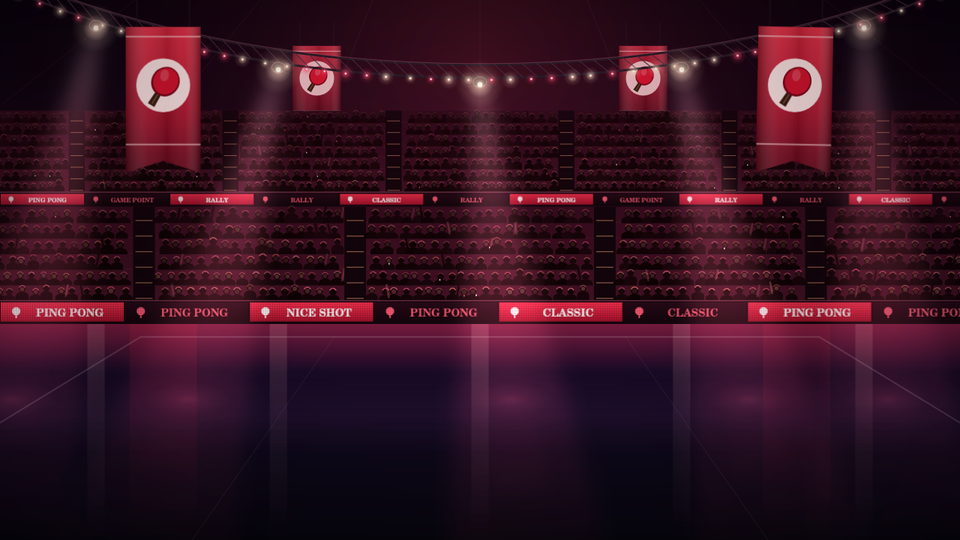
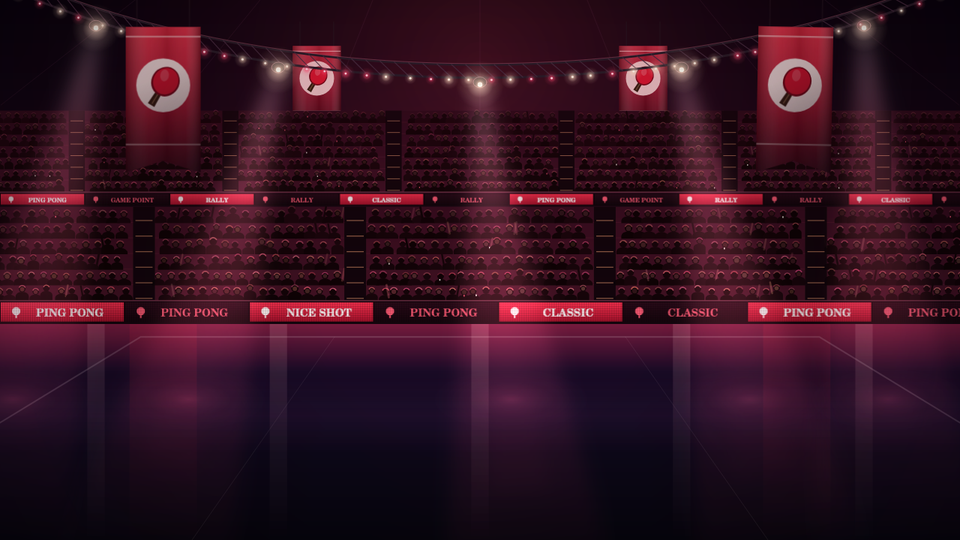
Relight planet and roadside cutouts, shade cloth and refresh renderer cache URLs

Changed region(s): [[0.7812, 0.0889, 0.875, 0.3259], [0.125, 0.0889, 0.2188, 0.3259]]

diff --git a/game/js/render/gravity-art.js b/game/js/render/gravity-art.js
@@ -8,6 +8,36 @@
         x: ((i * 0.61803398875 + .13) % 1), y: ((i * .41421356237 + .07) % 1),
         phase: i * 2.39, size: i % 9 === 0 ? 1.6 : .8, speed: .3 + (i % 3) * .4
     }));
+    // Shade the transparent atlas once. The galaxy at upper left is the key
+    // light: planets need an unlit hemisphere instead of a uniformly neon rim.
+    function lightPlanets(image) {
+        const c = document.createElement('canvas');
+        const scale = Math.min(1, 1024 / image.naturalWidth);
+        c.width = Math.round(image.naturalWidth * scale);
+        c.height = Math.round(image.naturalHeight * scale);
+        const ctx = c.getContext('2d');
+        ctx.drawImage(image, 0, 0, c.width, c.height);
+        ctx.globalCompositeOperation = 'source-atop';
+        for (const [rx, ry, rw, rh, lx, ly] of [
+            [.015, .03, .46, .92, .13, .15],
+            [.472, .06, .528, .83, .57, .08]
+        ]) {
+            const x = rx * c.width, y = ry * c.height;
+            const w = rw * c.width, h = rh * c.height;
+            ctx.save();
+            ctx.beginPath(); ctx.rect(x, y, w, h); ctx.clip();
+            const shade = ctx.createRadialGradient(x + w * lx, y + h * ly, w * .06,
+                x + w * lx, y + h * ly, w * 1.05);
+            shade.addColorStop(0, 'rgba(8,12,32,0)');
+            shade.addColorStop(.32, 'rgba(8,12,32,0.12)');
+            shade.addColorStop(.66, 'rgba(5,8,25,0.58)');
+            shade.addColorStop(1, 'rgba(3,6,20,0.92)');
+            ctx.fillStyle = shade; ctx.fillRect(x, y, w, h);
+            ctx.restore();
+        }
+        ctx.globalCompositeOperation = 'source-over';
+        return c;
+    }
     function load() {
         if (assets.started || typeof Image === 'undefined') return;
         assets.started = true;
@@ -15,7 +45,7 @@
             const image = new Image();
             image.decoding = 'async';
             image.onload = () => Promise.resolve(image.decode ? image.decode() : undefined).then(() => {
-                assets[key] = image;
+                assets[key] = key === 'planets' ? lightPlanets(image) : image;
                 window.game?.bgRenderer?._invalidateBackgroundRenderCache?.();
             }).catch(() => {});
             image.onerror = () => {}; // keep the bounded procedural fallback
@@ -32,6 +62,7 @@
             -h * .015 + (motion ? Math.cos(time * .05) * h * .006 : 0), w * 1.03, h * 1.03);
         if (assets.planets) {
             const atlas = assets.planets;
+            const aw = atlas.naturalWidth || atlas.width, ah = atlas.naturalHeight || atlas.height;
             // Explicit rectangles keep the ring intact across the atlas midpoint.
             const rects = [[.015, .03, .46, .92], [.472, .06, .528, .83]];
             for (let i = 0; i < 2; i++) {
@@ -43,10 +74,11 @@
                 const py = h * (i === 0 ? .17 : .80) + Math.cos(drift * .17 + i) * unit * .01;
                 ctx.save();
                 ctx.translate(px, py);
-                ctx.rotate((i === 0 ? 1 : -1) * drift * .025);
-                const height = side * (rh * atlas.naturalHeight) / (rw * atlas.naturalWidth);
-                ctx.drawImage(atlas, rx * atlas.naturalWidth, ry * atlas.naturalHeight,
-                    rw * atlas.naturalWidth, rh * atlas.naturalHeight,
+                // Keep the baked light direction stable in world space.
+                ctx.rotate(Math.sin(drift * .13 + i) * .025);
+                const height = side * (rh * ah) / (rw * aw);
+                ctx.drawImage(atlas, rx * aw, ry * ah,
+                    rw * aw, rh * ah,
                     -side / 2, -height / 2, side, height);
                 ctx.restore();
             }
@@ -90,3 +122,4 @@
     window.GravityArt = {drawBackground, drawWell,
         status: () => ({sceneReady: !!assets.scene, wellReady: !!assets.well, planetsReady: !!assets.planets})};
 })();
+

diff --git a/tests/gravity-artwork.test.js b/tests/gravity-artwork.test.js
@@ -4,12 +4,12 @@ const vm = require('node:vm');
 const path = require('node:path');
 async function main() {
     const images = [], positions = [], rotations = [];
-    let invalidations = 0, blits = 0, dots = 0;
+    let invalidations = 0, blits = 0, dots = 0, bakes = 0, shades = 0;
     const ctx = {save(){},restore(){},translate(x,y){positions.push([x,y]);},rotate(a){rotations.push(a);},beginPath(){},arc(){},stroke(){},
         drawImage(){blits++;}, fillRect(){dots++;}, globalAlpha: 1};
     const sandbox = {URL, Promise, window: {game: {bgRenderer: {_invalidateBackgroundRenderCache(){invalidations++;}}}},
         Image: class {constructor(){images.push(this);}},
-        document: {currentScript: {src:'https://example.com/Ping-Pong-/game/js/render/gravity-art.js'}},
+        document: {createElement() { bakes++; return {width:0,height:0,getContext:()=>new Proxy({}, {get:(_,key)=>key==='createRadialGradient'?()=>{shades++;return {addColorStop(){}};}:()=>{}})}; }, currentScript: {src:'https://example.com/Ping-Pong-/game/js/render/gravity-art.js'}},
         areParticleEffectsEnabled: () => true};
     vm.createContext(sandbox);
     vm.runInContext(fs.readFileSync(path.join(__dirname,'../game/js/render/gravity-art.js'),'utf8'),sandbox);
@@ -23,6 +23,8 @@ async function main() {
     await new Promise(resolve=>setImmediate(resolve));
     assert.equal(invalidations,3);
     assert.equal(art.status().sceneReady,true);
+    assert.equal(bakes,1,'shade the transparent planet atlas once after decoding');
+    assert.equal(shades,2,'each planet has directional illumination');
     blits=dots=0;
     for(let i=0;i<120;i++) {
         assert.equal(art.drawBackground(ctx,1024,576,i/60),true);
@@ -31,6 +33,8 @@ async function main() {
     assert.equal(blits,120*8,'one backdrop, two planets and one image draw per well');
     assert.equal(dots,120*88,'72 stars plus eight simple cross sparkles have a fixed budget');
     assert.equal(images.length,3,'warm frames do not create new images');
+    assert.equal(bakes,1,'warm frames reuse the lit planet atlas');
+    assert.equal(shades,2,'warm frames never rebuild lighting gradients');
     positions.length=rotations.length=0;
     art.drawBackground(ctx,1920,1080,0);
     const atStart=JSON.stringify(positions), angleStart=JSON.stringify(rotations);
@@ -44,3 +48,4 @@ async function main() {
     console.log('Gravity generated artwork loading and animated draw budgets passed.');
 }
 main().catch(err=>{console.error(err);process.exitCode=1;});
+

diff --git a/game/play.html b/game/play.html
@@ -22,7 +22,7 @@
     <link rel="stylesheet" href="css/touch.css">
     <link rel="stylesheet" href="css/ui-art.css">
     <link rel="stylesheet" href="css/zombie-hud.css">
-    <link rel="stylesheet" href="css/studio.css">
+    <link rel="stylesheet" href="css/studio.css?v=20261026-lighting-2">
     <link rel="stylesheet" href="css/ui-refresh.css">
     <link rel="stylesheet" href="css/replay-broadcast.css?v=20261020-1">
     <link rel="stylesheet" href="css/art-direction.css?v=20261020-1">
@@ -595,11 +595,11 @@
     <script src="js/render/obstacle-floor-shader.js"></script>
     <script src="js/render/obstacle-sky-shader.js"></script>
     <script src="js/render/obstacle-waterfalls.js"></script>
-    <script src="js/render/obstacle-sky-scene.js"></script>
-    <script src="js/render/speed-art.js?v=20261024-hybrid-2"></script>
-    <script src="js/render/classic-art.js?v=20261019-sway-3"></script>
-    <script src="js/render/gravity-art.js?v=20261024-gravity-hd-1"></script>
-    <script src="js/render/background-renderer.js?v=20261024-gravity-hd-1"></script>
+    <script src="js/render/obstacle-sky-scene.js?v=20261026-lighting-2"></script>
+    <script src="js/render/speed-art.js?v=20261026-lighting-2"></script>
+    <script src="js/render/classic-art.js?v=20261026-lighting-2"></script>
+    <script src="js/render/gravity-art.js?v=20261026-lighting-2"></script>
+    <script src="js/render/background-renderer.js?v=20261026-lighting-2"></script>
     <script src="js/render/post-fx.js"></script>
     <script src="js/fx/particles.js"></script>
     <script src="js/audio/laser-shot.js"></script>
@@ -615,7 +615,7 @@
     <script src="js/entities/paddle.js"></script>
     <script src="js/modes/obstacles.js"></script>
     <script src="js/modes/obstacle-arcade.js"></script>
-    <script src="js/modes/custom-backgrounds.js"></script>
+    <script src="js/modes/custom-backgrounds.js?v=20261026-lighting-2"></script>
     <script src="js/modes/forge-look.js"></script>
     <script src="js/modes/forge.js"></script>
     <script src="js/modes/forge-zombies.js"></script>
@@ -654,4 +654,5 @@
     <script src="js/menu/custom-screen.js"></script>
 </body>
 </html>
+
 

diff --git a/game/js/modes/custom-backgrounds.js b/game/js/modes/custom-backgrounds.js
@@ -22,11 +22,11 @@
     const IMAGE_MAX_H = 1080;
 
     const BUILT_INS = [
-        { id: 'classic', name: 'Classic', image: 'assets/images/customise-previews/classic.png?v=20261025-lighting' },
-        { id: 'zombie', name: 'Zombie', image: 'assets/images/customise-previews/zombie.png?v=20261025-lighting' },
-        { id: 'gravity', name: 'Gravity', image: 'assets/images/customise-previews/gravity.png?v=20261025-lighting' },
-        { id: 'speed', name: 'Speed', image: 'assets/images/customise-previews/speed.png?v=20261025-lighting' },
-        { id: 'obstacle', name: 'Obstacle', image: 'assets/images/customise-previews/obstacle.png?v=20261025-lighting' },
+        { id: 'classic', name: 'Classic', image: 'assets/images/customise-previews/classic.png?v=20261026-lighting-2' },
+        { id: 'zombie', name: 'Zombie', image: 'assets/images/customise-previews/zombie.png?v=20261026-lighting-2' },
+        { id: 'gravity', name: 'Gravity', image: 'assets/images/customise-previews/gravity.png?v=20261026-lighting-2' },
+        { id: 'speed', name: 'Speed', image: 'assets/images/customise-previews/speed.png?v=20261026-lighting-2' },
+        { id: 'obstacle', name: 'Obstacle', image: 'assets/images/customise-previews/obstacle.png?v=20261026-lighting-2' },
     ];
 
     const EXAMPLE_CANVAS = `// Neon horizon: a Canvas 2D background for Ping Pong.

diff --git a/game/js/render/classic-art.js b/game/js/render/classic-art.js
@@ -504,6 +504,18 @@
             const tw = Math.ceil(bwNear + pad * 2), th = Math.ceil(bannerH * 1.3 + pad * 2);
             const [bannerCanvas, bannerCtx] = canvas(tw, th, Math.min(sx, 1), Math.min(sy, 1));
             paintBanner(bannerCtx, tw / 2, bannerH * 0.3 + pad, bwNear, bannerH, false);
+            // Cloth receives overhead spill and folds into shadow at the hem.
+            // Shade only opaque cloth pixels in the shared cached banner.
+            bannerCtx.save();
+            bannerCtx.setTransform(1, 0, 0, 1, 0, 0);
+            bannerCtx.globalCompositeOperation = 'source-atop';
+            const clothShade = bannerCtx.createLinearGradient(0, 0, bannerCanvas.width, bannerCanvas.height);
+            clothShade.addColorStop(0, 'rgba(18,3,14,0)');
+            clothShade.addColorStop(.48, 'rgba(18,3,14,0.16)');
+            clothShade.addColorStop(1, 'rgba(8,2,10,0.70)');
+            bannerCtx.fillStyle = clothShade;
+            bannerCtx.fillRect(0, 0, bannerCanvas.width, bannerCanvas.height);
+            bannerCtx.restore();
             this.banner = { c: bannerCanvas, w: tw, h: th, pivot: pad, y: h * 0.05 - bannerH * 0.3 };
             paintFascia(bx, w, L.ribbon[0], L.ribbon[1] - L.ribbon[0]);
             paintTier(bx, w, L.ribbon[1], L.lower[1], 6, 57, {

diff --git a/game/js/render/speed-art.js b/game/js/render/speed-art.js
@@ -55,8 +55,20 @@
         c.height = Math.max(1, Math.round(h * scale));
         const x = c.getContext('2d');
         if (flip) { x.translate(c.width, 0); x.scale(-1, 1); }
+        x.filter = 'saturate(0.68) brightness(0.82)';
         x.drawImage(artwork.props, rx / 1254 * artwork.props.naturalWidth,
             ry / 1254 * artwork.props.naturalHeight, w, h, 0, 0, c.width, c.height);
+        x.filter = 'none';
+        x.setTransform(1, 0, 0, 1, 0, 0);
+        // Ambient purple replaces the atlas's cyan sticker-like fringe; the
+        // lower half falls into road shadow. Preserve the source alpha exactly.
+        x.globalCompositeOperation = 'source-atop';
+        const shade = x.createLinearGradient(0, 0, 0, c.height);
+        shade.addColorStop(0, 'rgba(29,12,42,0.08)');
+        shade.addColorStop(.5, 'rgba(17,9,33,0.20)');
+        shade.addColorStop(1, 'rgba(5,5,19,0.72)');
+        x.fillStyle = shade; x.fillRect(0, 0, c.width, c.height);
+        x.globalCompositeOperation = 'source-over';
         return { c, w: rw, h: rh, anchor: kind === 'lamp' ? (flip ? 0.8 : 0.2) : kind === 'palm' ? (flip ? 0.65 : 0.35) : 0.5 };
     }
 

diff --git a/game/js/core/game.js b/game/js/core/game.js
@@ -410,11 +410,11 @@ class Game {
 
     getCustomPreviewImageMap() {
         return {
-            classic: 'assets/images/customise-previews/classic.png?v=20261025-lighting',
-            zombie: 'assets/images/customise-previews/zombie.png?v=20261025-lighting',
-            gravity: 'assets/images/customise-previews/gravity.png?v=20261025-lighting',
-            speed: 'assets/images/customise-previews/speed.png?v=20261025-lighting',
-            obstacle: 'assets/images/customise-previews/obstacle.png?v=20261025-lighting'
+            classic: 'assets/images/customise-previews/classic.png?v=20261026-lighting-2',
+            zombie: 'assets/images/customise-previews/zombie.png?v=20261026-lighting-2',
+            gravity: 'assets/images/customise-previews/gravity.png?v=20261026-lighting-2',
+            speed: 'assets/images/customise-previews/speed.png?v=20261026-lighting-2',
+            obstacle: 'assets/images/customise-previews/obstacle.png?v=20261026-lighting-2'
         };
     }
 
